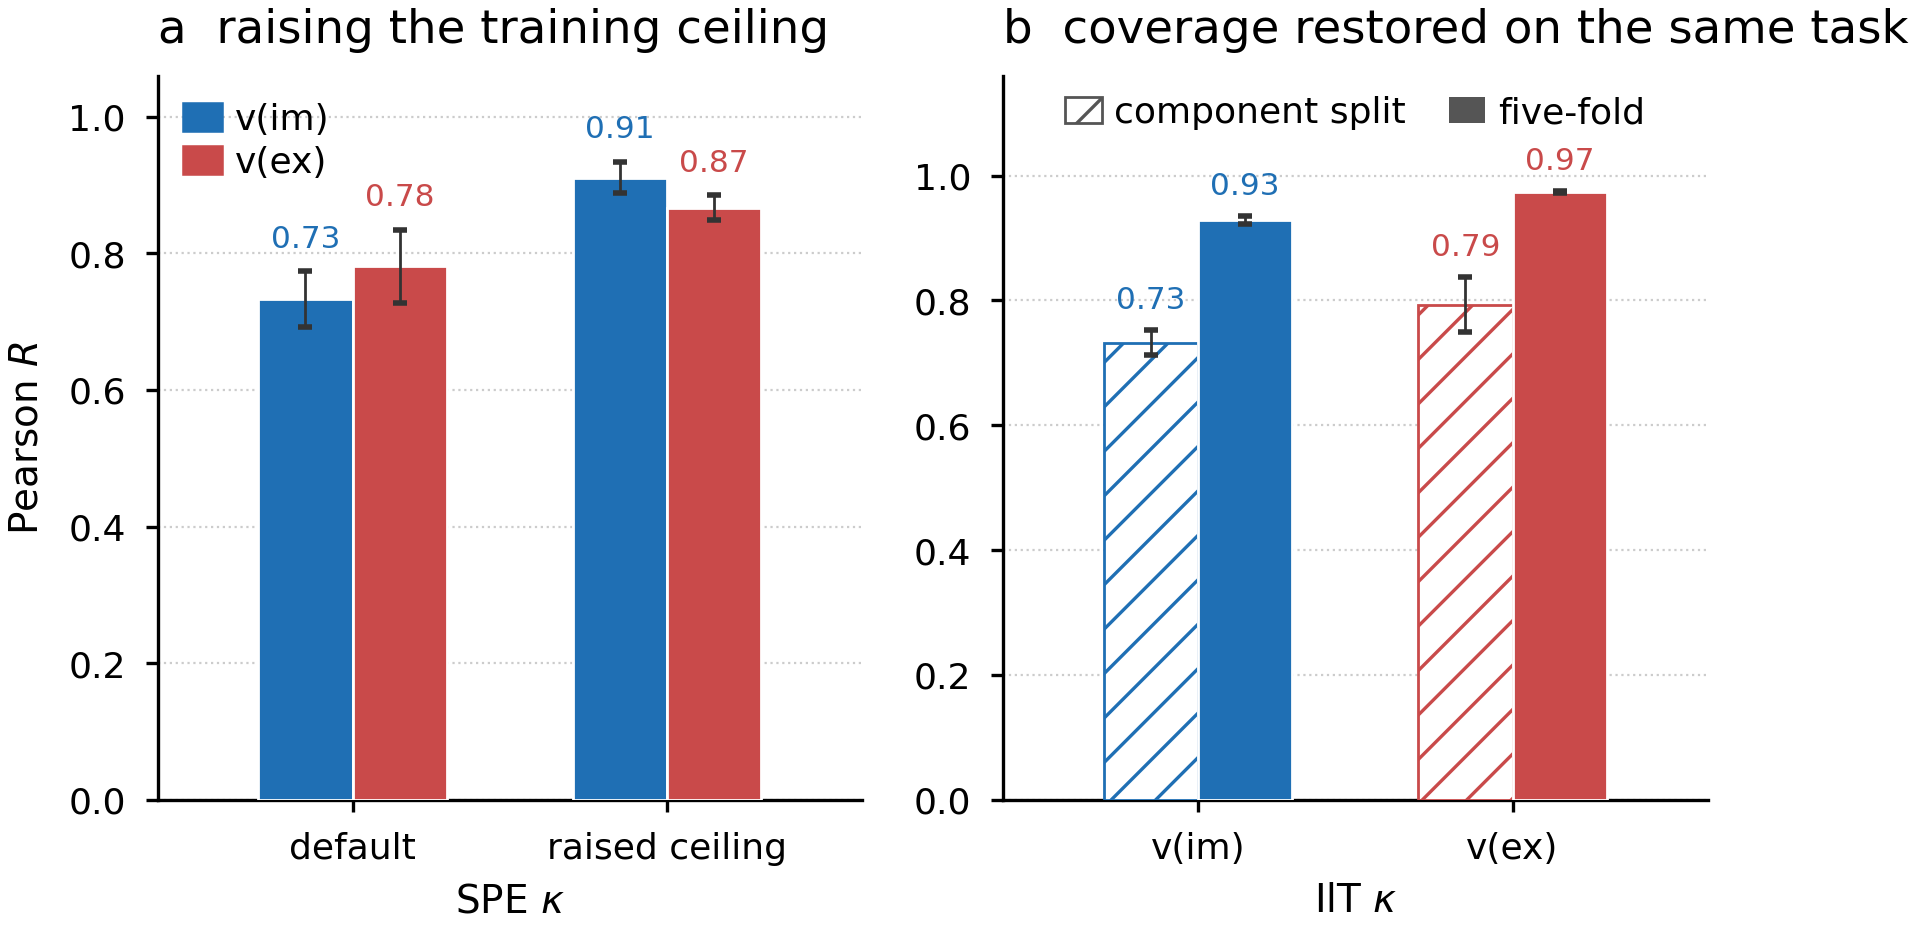
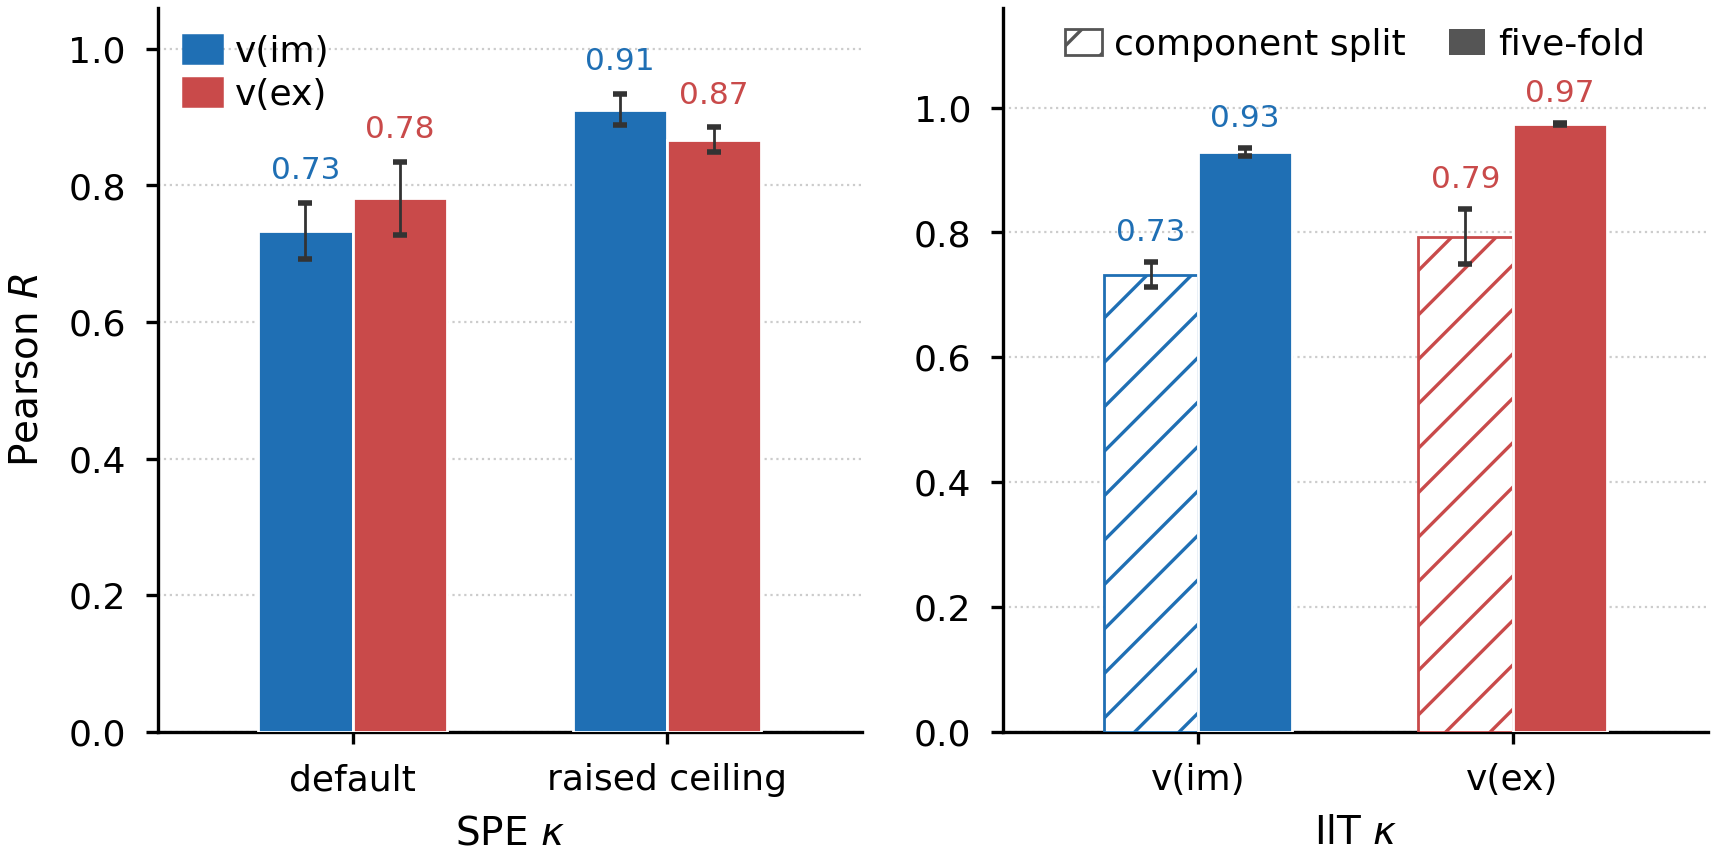
Figures: number the outputs like the paper (Figure2-5) and drop the two panel titles in the coverage figure

diff --git a/figures/make_figures.py b/figures/make_figures.py
@@ -9,7 +9,7 @@ C  repro_v2/08_small_labels/summary.csv       (Table 3; mixpca grid only)
 D  IlT kappa per-regime scores transcribed from the 12_iltk_dry runs, and
    SPE kappa from Supplementary Table S4 (see DATA_FIG_D).
 
-    python make_figures.py            # writes FigureA-D .pdf and .png
+    python make_figures.py            # writes Figure2-5 .pdf and .png (same numbering as the paper)
 """
 import csv
 import os
@@ -112,7 +112,7 @@ def fig_a():
                     mew=1.6)]
     ax.legend(h, ['v(im)', 'v(ex)', 'additive'], loc='lower right',
               handletextpad=0.5, borderaxespad=0.4, labelspacing=0.3)
-    save(fig, 'Figure1')
+    save(fig, 'Figure2')
 
 
 # --------------------------------------------------------------------------- #
@@ -156,7 +156,7 @@ def fig_b():
     clean(ax, 'y')
     ax.legend(loc='lower left', handletextpad=0.5, labelspacing=0.3,
               handlelength=1.6)
-    save(fig, 'Figure3')
+    save(fig, 'Figure4')
 
 
 # --------------------------------------------------------------------------- #
@@ -203,7 +203,7 @@ def fig_c():
          plt.Line2D([], [], marker='o', ls='none', color=C_IM, ms=3.4)]
     ax.legend(h, ['best descriptor', 'borrowed encoders'], loc='upper left',
               handletextpad=0.5, labelspacing=0.3, borderaxespad=0.3)
-    save(fig, 'Figure4')
+    save(fig, 'Figure5')
 
 
 # --------------------------------------------------------------------------- #
@@ -242,7 +242,6 @@ def fig_d():
     ax.set_xlabel(r'SPE $\kappa$', labelpad=3)
     ax.set_ylabel('Pearson $R$')
     clean(ax, 'y')
-    ax.set_title('a  raising the training ceiling', loc='left')
     h = [plt.Rectangle((0, 0), 1, 1, color=C_IM),
          plt.Rectangle((0, 0), 1, 1, color=C_EX)]
     ax.legend(h, ['v(im)', 'v(ex)'], loc='upper left', handlelength=1.0,
@@ -269,14 +268,13 @@ def fig_d():
     ax2.set_ylim(0, 1.16)
     ax2.set_xlabel(r'IlT $\kappa$', labelpad=3)
     clean(ax2, 'y')
-    ax2.set_title('b  coverage restored on the same task', loc='left')
     h2 = [plt.Rectangle((0, 0), 1, 1, facecolor='white', edgecolor='#555555',
                         hatch='///', linewidth=0.5),
           plt.Rectangle((0, 0), 1, 1, facecolor='#555555', edgecolor='none')]
     ax2.legend(h2, ['component split', 'five-fold'], loc='upper center',
                ncol=2, handlelength=1.0, handletextpad=0.35,
                columnspacing=1.2, borderaxespad=0.15)
-    save(fig, 'Figure2')
+    save(fig, 'Figure3')
 
 
 if __name__ == '__main__':

diff --git a/README.md b/README.md
@@ -90,8 +90,8 @@ encoder side down by aggregation.
 **`09_vex_simple/`** — the variant holds the parameter count equal to v(im) (1.23 million each);
 `results/vsimple_composition_44d.csv` is the nine-task, three-seed table of Section S1.
 
-**`figures/`** — `make_figures.py` writes `Figure1`--`Figure4`, which are Figs. 2--5 of the
-paper: the script numbers them in drawing order, one lower than the published numbering.
+**`figures/`** — `make_figures.py` writes `Figure2`--`Figure5` as PDF and PNG, one per data
+figure, under the same numbers as the captions.
 
 ## Reproducing a table
 
